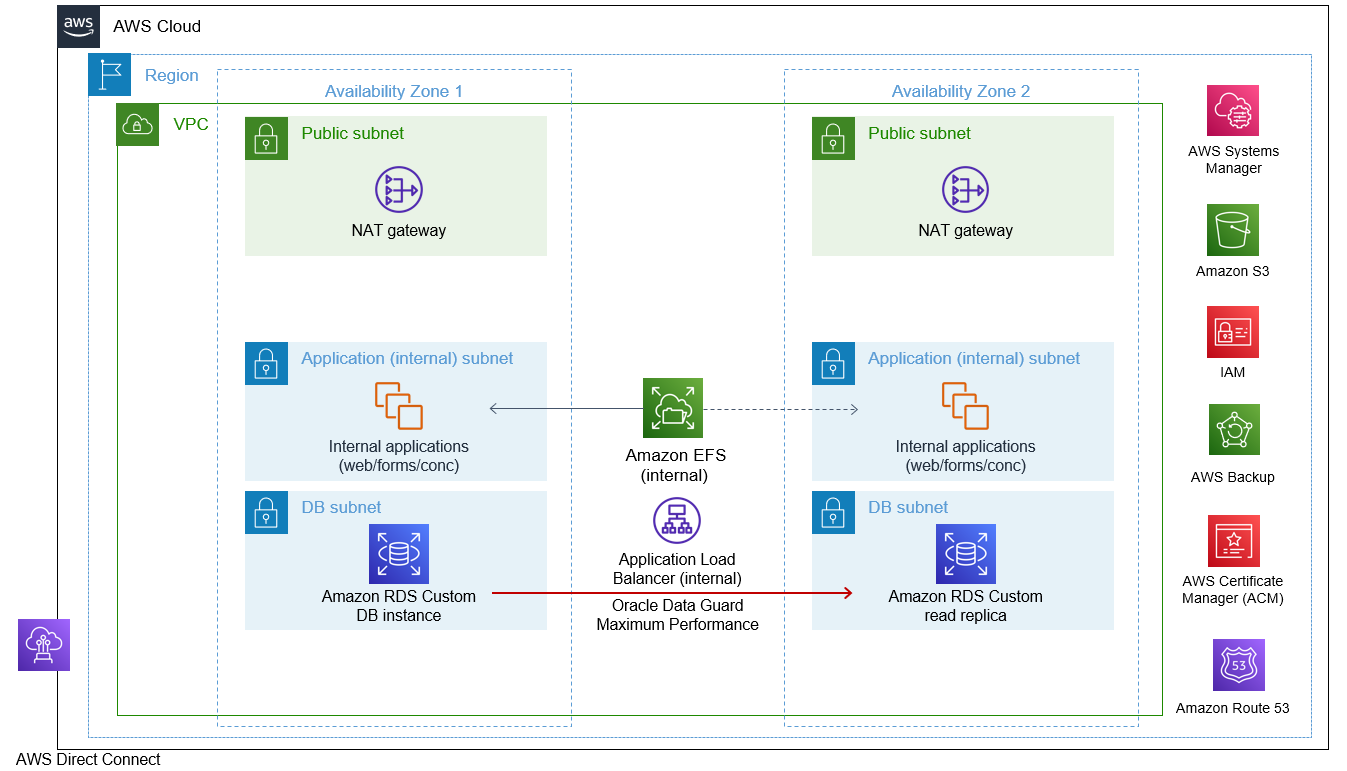
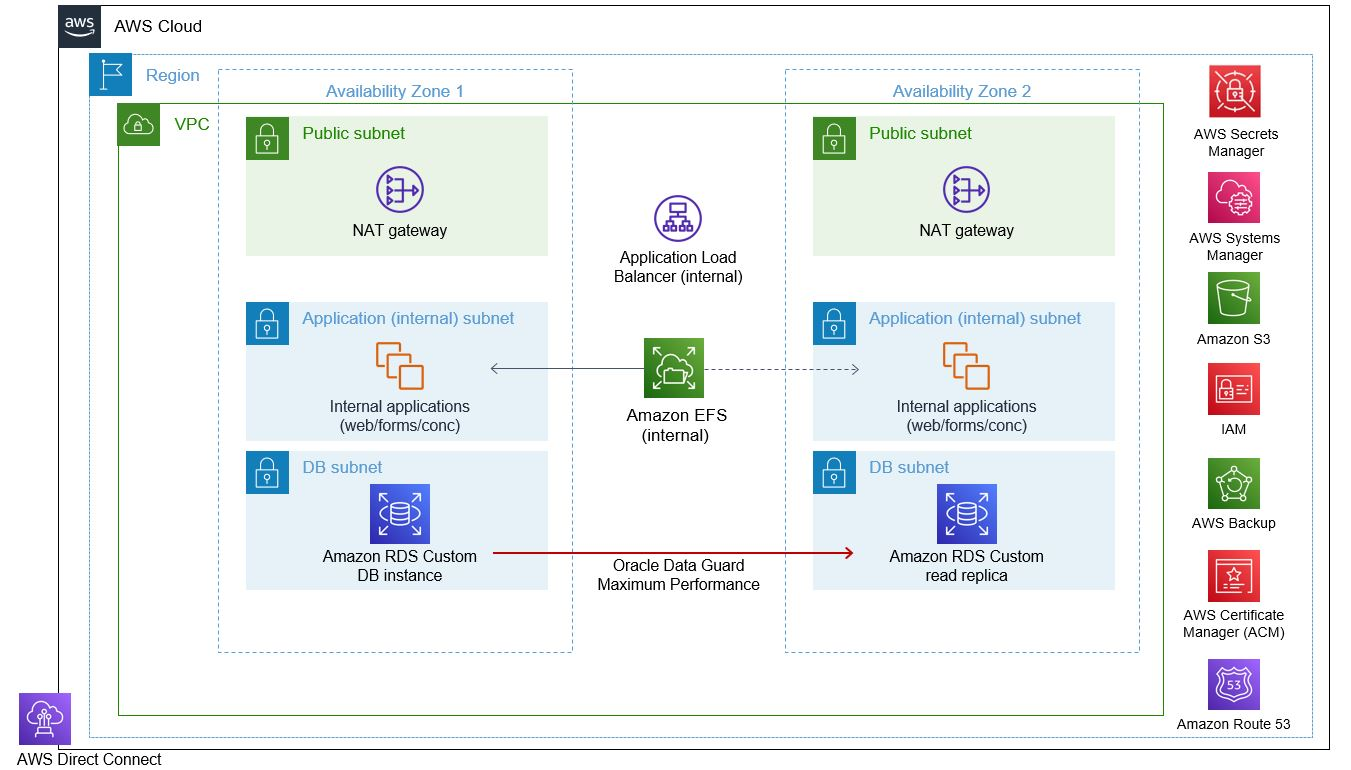
Version 1.0

diff --git a/iamres/iam_res_stack.py b/iamres/iam_res_stack.py
@@ -11,18 +11,6 @@ class IamResStack(Stack):
     def __init__(self, scope: Construct, construct_id: str, **kwargs) -> None:
         super().__init__(scope, construct_id, **kwargs)
 
-
-        # Create IAM Policy
-        newpolicy = iam.Policy(self, "ATS-CUSTOMLAMBDAPOLICY",
-                     policy_name="ATS-CUSTOMLAMBDAPOLICY",
-                     statements=[
-                        iam.PolicyStatement(
-                            actions=["elasticloadbalancing:DescribeSSLPolicies","ssm:SendCommand","elasticloadbalancing:ModifyListener","ec2:DescribeInstances","elasticloadbalancing:DescribeTags","ec2:CreateTags","logs:CreateLogGroup","logs:PutLogEvents","elasticloadbalancing:DescribeLoadBalancerAttributes","elasticloadbalancing:DescribeLoadBalancers","logs:CreateLogStream","elasticloadbalancing:RemoveTags","elasticloadbalancing:DescribeTargetGroupAttributes","elasticloadbalancing:DescribeListeners","ec2:DescribeAvailabilityZones","elasticloadbalancing:DescribeAccountLimits","elasticloadbalancing:AddTags","elasticloadbalancing:DescribeTargetHealth","elasticloadbalancing:DescribeTargetGroups","elasticloadbalancing:DescribeListenerCertificates","elasticloadbalancing:DescribeRules","ec2:DescribeInstanceStatus","ec2:DescribeInstances","ec2:CreateNetworkInterface","ec2:AttachNetworkInterface","ec2:DescribeNetworkInterfaces","ec2:DeleteNetworkInterface"],
-                            resources=["*"])
-                               ]
-                           )
-
-
         # Create IAM ROLE
         newrole = iam.Role(self, "ATSCUSTOMLAMBDAROLE", role_name="ATSCUSTOMLAMBDAROLE",assumed_by=iam.ServicePrincipal("lambda.amazonaws.com"))
 
@@ -31,4 +19,5 @@ class IamResStack(Stack):
         newrole.add_managed_policy(iam.ManagedPolicy.from_aws_managed_policy_name("ReadOnlyAccess"))
         newrole.add_managed_policy(iam.ManagedPolicy.from_aws_managed_policy_name("AWSLambdaExecute"))
         newrole.add_managed_policy(iam.ManagedPolicy.from_aws_managed_policy_name("service-role/AWSLambdaRole"))
-        newrole.attach_inline_policy(newpolicy)
+        newrole.add_managed_policy(iam.ManagedPolicy.from_aws_managed_policy_name("service-role/AmazonSSMAutomationRole"))
+        newrole.add_managed_policy(iam.ManagedPolicy.from_aws_managed_policy_name("service-role/AWSLambdaVPCAccessExecutionRole"))

diff --git a/atsobject/lambda/ATS-EBS-FetchPrimaryDb/lambda_function.py b/atsobject/lambda/ATS-EBS-FetchPrimaryDb/lambda_function.py
@@ -32,12 +32,12 @@ def lambda_handler(event, context):
     
 
     response_ssm = ssm.get_parameters(
-                            Names=['ATS-'+tgt_db+'-Nodetab'],
+                            Names=['R12-'+tgt_db+'-Nodetab'],
                             WithDecryption=True
                             ).get("Parameters")
                             
     if not response_ssm:
-       raise Exception ("Issue in reading the parameter store ATS-"+tgt_db+"-Nodetab")    
+       raise Exception ("Issue in reading the parameter store R12-"+tgt_db+"-Nodetab")    
 
     value=response_ssm[0]["Value"]
     db_servers=[]

diff --git a/atsobject/lambda/ATS-EBS-ELBSwitch/lambda_function.py b/atsobject/lambda/ATS-EBS-ELBSwitch/lambda_function.py
@@ -33,7 +33,7 @@ def lambda_handler(event, context):
                  )
     
     response_ssm = ssm.get_parameters(
-                            Names=['ATS-'+tgt_db+'-Nodetab'],
+                            Names=['R12-'+tgt_db+'-Nodetab'],
                             WithDecryption=True
                             ).get("Parameters")
     

diff --git a/atsobject/lambda/ATS-EBS-StandbyMount/lambda_function.py b/atsobject/lambda/ATS-EBS-StandbyMount/lambda_function.py
@@ -33,7 +33,7 @@ def lambda_handler(event, context):
                  )
     
     response_ssm = ssm.get_parameters(
-                            Names=['ATS-'+tgt_db+'-Nodetab'],
+                            Names=['R12-'+tgt_db+'-Nodetab'],
                             WithDecryption=True
                             ).get("Parameters")
     

diff --git a/atsobject/lambda/ATS-EBS-StartApplication/lambda_function.py b/atsobject/lambda/ATS-EBS-StartApplication/lambda_function.py
@@ -31,7 +31,7 @@ def lambda_handler(event, context):
                  )
     
     response_ssm = ssm.get_parameters(
-                            Names=['ATS-'+tgt_db+'-Nodetab'],
+                            Names=['R12-'+tgt_db+'-Nodetab'],
                             WithDecryption=True
                             ).get("Parameters")
     

diff --git a/atsobject/lambda/ATS-EBS-StopApplication/lambda_function.py b/atsobject/lambda/ATS-EBS-StopApplication/lambda_function.py
@@ -33,7 +33,7 @@ def lambda_handler(event, context):
                  )
     
     response_ssm = ssm.get_parameters(
-                            Names=['ATS-'+tgt_db+'-Nodetab'],
+                            Names=['R12-'+tgt_db+'-Nodetab'],
                             WithDecryption=True
                             ).get("Parameters")
     

diff --git a/atsobject/lambda/ATS-EBS-SwitchoverDb/lambda_function.py b/atsobject/lambda/ATS-EBS-SwitchoverDb/lambda_function.py
@@ -32,7 +32,7 @@ def lambda_handler(event, context):
                  )
     
     response_ssm = ssm.get_parameters(
-                            Names=['ATS-'+tgt_db+'-Nodetab'],
+                            Names=['R12-'+tgt_db+'-Nodetab'],
                             WithDecryption=True
                             ).get("Parameters")
     

diff --git a/README.md b/README.md
@@ -35,17 +35,44 @@ This project will create the following in your AWS cloud environment specified:
     The naming convention of the primary database should be ATS-<>ENVNAME<>-Nodetab with parameter store type SecureString. For example if the environment name is VIS, then the AWS Parameter Store should be named ATS-VIS-Nodetab
 
     The values in the AWS Parameter Store should contain the following information in the specified order for both the Primary and Standby environments, as well as for each E-Biz virtual hostname. The values are separated by ‘:’
-    EnvName:Primary DB Unique Name:Primary DB EC2 Unique Hostname:Primary App EC2 Unique Hostname:ALB Target Group Name For Primary App EC2 Instances:ALB Name:ALB Listener Port:Application Logical Hostname:Application Base Path:(P)rimary/(S)econdary Application Node:Apps Password:Weblogic Password
+    EnvName:Primary DB Unique Name:Primary DB EC2 Unique Hostname:Primary App EC2 Unique Hostname:ALB Target Group Name For Primary App EC2 Instances:ALB Name:ALB Listener Port:Application Logical Hostname:Application Base Path:(P)rimary/(S)econdary Application Node
 
-    EnvName:Standby DB Unique Name:Standby DB EC2 Unique Hostname:Standby App EC2 Unique Hostname:ALB Target Group Name For Standby App EC2 Instances:ALB Name:ALB Listener Port:Application Logical Hostname:Application Base Path:(P)rimary/(S)econdary Application Node:Apps Password:Weblogic Password
+    EnvName:Standby DB Unique Name:Standby DB EC2 Unique Hostname:Standby App EC2 Unique Hostname:ALB Target Group Name For Standby App EC2 Instances:ALB Name:ALB Listener Port:Application Logical Hostname:Application Base Path:(P)rimary/(S)econdary Application Node
 
     The following are sample entries for a two-node application server configured with AWS Custom RDS for both primary and standby configuration.
 
-    VIS:VIS_P:EBIZ-P-VIS-DB-AZ1:EBIZ-P-VIS-APP-01:TGP-VIS-PRM:ALB-VIS-PRM:443:EBSAPP01:/fh01/VIS:P:apps:wls123
-    VIS:VIS_P:EBIZ-P-VIS-DB-AZ1:EBIZ-P-VIS-APP-01:TGP-VIS-PRM:ALB-VIS-PRM:443:EBSAPP02:/fh01/VIS:S:apps:wls123
-    VIS:VIS_S:EBIZ-S-VIS-DB-AZ2:EBIZ-S-VIS-APP-01:TGP-VIS-STBY:ALB-VIS-STBY:443:EBSAPP01:/fh01/VIS:P:apps:wls123
-    VIS:VIS_S:EBIZ-S-VIS-DB-AZ2:EBIZ-S-VIS-APP-01:TGP-VIS-STBY:ALB-VIS-STBY:443:EBSAPP02:/fh01/VIS:S:apps:wls123
+    VIS:VIS_P:EBIZ-P-VIS-DB-AZ1:EBIZ-P-VIS-APP-01:TGP-VIS-PRM:ALB-VIS-PRM:443:EBSAPP01:/fh01/VIS:P
+    VIS:VIS_P:EBIZ-P-VIS-DB-AZ1:EBIZ-P-VIS-APP-01:TGP-VIS-PRM:ALB-VIS-PRM:443:EBSAPP02:/fh01/VIS:S
+    VIS:VIS_S:EBIZ-S-VIS-DB-AZ2:EBIZ-S-VIS-APP-01:TGP-VIS-STBY:ALB-VIS-STBY:443:EBSAPP01:/fh01/VIS:P
+    VIS:VIS_S:EBIZ-S-VIS-DB-AZ2:EBIZ-S-VIS-APP-01:TGP-VIS-STBY:ALB-VIS-STBY:443:EBSAPP02:/fh01/VIS:S
 
+4.  An AWS Secrets Manager Secret to store Oracle E-Business suite credentials
+
+    The naming convention of the secret should be R12-<>EnvName<>-Secret with secret type Other type of secret. For example if the environment name is VIS, then the AWS Secrets Manager Secrets name should be R12-VIS-Secret.
+
+    The usernames and passwords in the AWS Secrets Manager Secret should be strictly stored in the below sequential order. The values are separated by ‘:’
+
+    The automation reads the AWS Secrets Manager Secret during the switchover/failover process to stop and restart the application services. The automation logic assumes that the first password is always the system database user password, that the second password is always the apps password, that the third password is always the sysadmin user password, and that the fourth password is always the weblogic user password. As a result, the order and sequence of storing the username and password are critical for automation.
+
+    Usernames should be stored in the below order in Secret Key field. 
+    system:apps:sysadmin:weblogic:ebs_system:custom
+
+    Passwords for the aforementioned users should be stored in the Secret Value field in the same order. The following are some sample passwords to demonstrate how they are stored in the Secret Key field in the same order as the username.
+
+    system_123:apps_234:sysadmin_121:weblogic_324:ebs_system_3123:custom_123
+
+    Note: The user ebs_system is introduced after AD TXK 11 patching in Oracle E-Business Suite. If you are in prior version of AD TXK then you may skip that user in the sequence.
+
+5. Role for EC2 instances that run Oracle E-Business Suite Environment.
+    Add the policy statement actions listed below to the existing role that is assigned to all AWS EC2 instances of Oracle E-Business Suite database and application. These actions are used in automation scripts to perform switchover/failover activities.
+
+    "elasticloadbalancing:DescribeLoadBalancers",
+    "elasticloadbalancing:ModifyListener",
+    "secretsmanager:GetSecretValue",
+    "elasticloadbalancing:DescribeListeners",
+    "ec2:DescribeAvailabilityZones",
+    "secretsmanager:PutSecretValue",
+    "elasticloadbalancing:DescribeTargetGroups"
 
 ## Deploying the CDK Project
 
@@ -56,7 +83,7 @@ This project is set up like a standard Python project. For an integrated develop
 2. Clone the github repository and navigate to the directory.
 
 ```
-$ git clone https://github.com/aws-samples/ats-ebs.git
+$ git clone https://gitlab.aws.dev/ebs_switchover/ats-ebs.git
 
 $ cd ats-ebs
 ```
